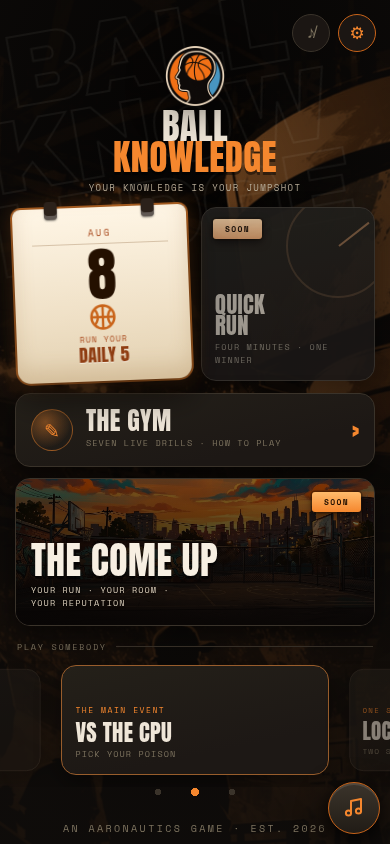
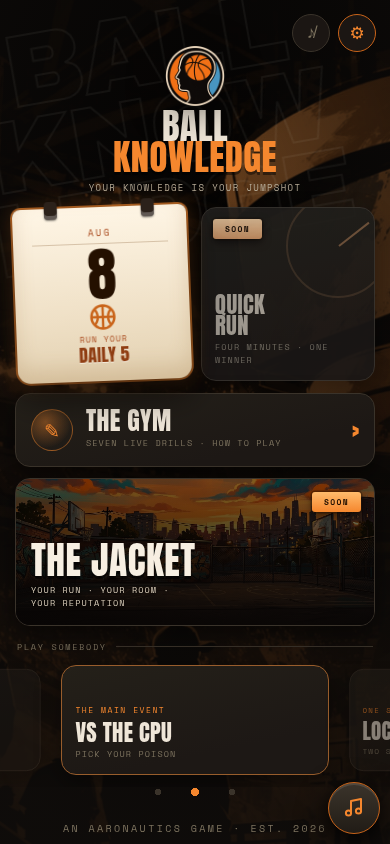
The career mode is THE JACKET, and the doubt about it is filed
Aaron ruled the name. One line, CAREER_NAME in game.js, and both menus follow
from [data-career-name]. The markup default was updated to match the constant so
a render before the script runs is not briefly wrong.

His doubt is filed in BUILD.md section 6 rather than answered in a chat reply,
because it is the biggest open design question in the project:

  "can we really build a career off of trivia questions? I almost am thinking a
   time travel series and letting it be going through the eras."

The short of what is filed: the doubt is correct and pointed at the wrong thing.
The questions are not the game, they are the dice. The board is the game, and a
career varies rosters, opponents, rules and courts while the resolution
mechanic stays constant.

The era idea is the best thing said about this mode and it is not sci-fi, it is
already the data's shape: eras.json, fact_eras.json and person_eras.json exist,
era tagging is Track A item A3, era-scoped questions were ruled in 22q. A
chapter per era narrows the pool to real cards, which is a difficulty curve made
of data rather than a number going up. It also gives a reason to write the
pre-1980 cards A5 is already about, so the mode and the coverage gap fix each
other.

Recommendation filed as option 1 (chapters, not time travel) structured so
option 2 stays available, because the chapter shape is identical either way.
Not decided, his call, and the unresolved part is named: what a chapter WIN is.
[…]

Changed region(s): [[0.2154, 0.6161, 0.5538, 0.7085]]

diff --git a/docs/play/index.html b/docs/play/index.html
@@ -1094,7 +1094,8 @@
      THE HIERARCHY THE LAYOUT ENCODES, top to bottom:
        TODAY   two squares, the Daily Five, and Quick Run when it exists
        LEARN   The Gym, one wide strip
-       BUILD   The Come Up, the tall one, because it is the biggest promise
+       BUILD   the career mode, the tall one, because it is the biggest
+               promise. Its NAME is CAREER_NAME in game.js, never typed here
        COMPETE the three VS modes, siblings, so they share one device
      That is why the sizes differ. Nothing here is decorative sizing. */
   /* PREFIX IS mm-, NOT nm-, AND THAT IS A BUG SCAR.
@@ -3136,7 +3137,7 @@
     <button class="mbtn live" id="btnOnline" data-pow="LET'S GO!"><span class="lbl">Online · Friend Codes</span><span class="soon" style="color:#ffd06a">ALPHA · access code required</span><span class="halftone"></span></button>
     <button class="mbtn live" id="btnPlay" data-pow="SWISH!"><span class="lbl">Local VS · one screen</span><span class="soon">two squads, pass-n-play</span><span class="halftone"></span></button>
     <button class="mbtn ghost live" id="btnHow" data-pow="RUN IT BACK!"><span class="lbl">The Gym</span><span class="soon">seven live drills · how to play</span><span class="halftone"></span></button>
-    <div class="mbtn locked tease packs"><span class="lbl" data-career-name>The Come Up</span><span class="lock"><svg class="ic"><use href="#i-lock"/></svg> Your run · your room</span><div class="tzone"><div class="rafters" aria-hidden="true"><div class="bnr b1" style="--bnc:#6a5c48"></div><div class="bnr b2" style="--bnc:var(--accent)"></div><div class="bnr b3" style="--bnc:#6a5c48"></div></div></div><span class="cornrib"><b>SOON</b></span></div>
+    <div class="mbtn locked tease packs"><span class="lbl" data-career-name>The Jacket</span><span class="lock"><svg class="ic"><use href="#i-lock"/></svg> Your run · your room</span><div class="tzone"><div class="rafters" aria-hidden="true"><div class="bnr b1" style="--bnc:#6a5c48"></div><div class="bnr b2" style="--bnc:var(--accent)"></div><div class="bnr b3" style="--bnc:#6a5c48"></div></div></div><span class="cornrib"><b>SOON</b></span></div>
   </div>
   <div class="proto">An Aaronautics game · est. 2026</div>
 </div>
@@ -3204,7 +3205,7 @@
       <span class="mm-bgtint" aria-hidden="true"></span>
       <span class="mm-bgdark" aria-hidden="true"></span>
       <span class="mm-rib">SOON</span>
-      <span class="mm-tname" data-career-name>The Come Up</span>
+      <span class="mm-tname" data-career-name>The Jacket</span>
       <span class="mm-tsub">your run · your room · your reputation</span>
     </div>
 

diff --git a/docs/play/game.js b/docs/play/game.js
@@ -6323,7 +6323,7 @@ g('btnSettings2').addEventListener('click',function(){openSettings('title')});
    Changing the mode's name is this one line. Typing it twice is how a game ends
    up calling the same thing two different things on two screens, which is the
    exact bug the Daily Five tier names already produced once. */
-var CAREER_NAME = 'The Come Up';
+var CAREER_NAME = 'The Jacket';
 function paintCareerName(){
   document.querySelectorAll('[data-career-name]').forEach(function(el){
     el.textContent = CAREER_NAME;

diff --git a/BUILD.md b/BUILD.md
@@ -1033,6 +1033,62 @@ storing what people typed; fine, but as a decision, not a side effect.
 
 ## 6 · Open design questions
 
+### CAN A CAREER MODE BE BUILT ON TRIVIA AT ALL? (Aaron, 2026-08-08)
+
+His name ruling: **THE JACKET.** The Hall of Fame jacket, a real object, one you
+can draw and put in a room and earn. `CAREER_NAME` in `game.js`; both menus read
+it from `[data-career-name]`.
+
+And immediately, his own doubt, which is the useful part:
+
+> *"I am already having some doubts about career mode because can we really
+> build a career off of trivia questions? I almost am thinking a time travel
+> series and letting it be going through the eras teaching you as you become a
+> legend with the jacket in your own era. A little sci-fi might kill it but I do
+> not know how to make the trivia around a career mode work."*
+
+**The doubt is correct and it is pointed at the wrong thing.** A career mode
+normally rewards skill that VARIES: you get better, and the game can see it.
+Trivia is binary, you know it or you do not, so a career built on the QUESTIONS
+would be a progress bar bolted to a quiz.
+But the questions are not the game. **They are the dice.** The game is the
+board: rosters, spacing rules, screens, the shot chart, who you are playing.
+A career varies all of that while the resolution mechanic stays constant, which
+is exactly how every dice game with a campaign works.
+
+**THE ERA IDEA IS THE BEST THING SAID ABOUT THIS MODE, and it is not sci-fi.**
+It is already in the data. `eras.json`, `fact_eras.json` and `person_eras.json`
+exist today; era tagging is Track A item **A3**; era-scoped questions were
+ruled in **22q**. So "a chapter per era" is not a fiction laid over the bank, it
+is **the bank's own shape**: each chapter narrows the question pool to one era,
+which is a real difficulty curve made of real data rather than a number going up.
+
+**And the two problems solve each other.** Coverage is thinnest in the old eras,
+which is why **A5** (the pre-1980 cards) is on Track A at all. A mode that walks
+the eras gives a reason to write those cards AND gives the player a reason to
+learn them. Right now nobody has a reason to care about 1954.
+
+**On the sci-fi worry, two honest options.**
+1. **Do not call it time travel.** Call it film study, or chapters. You are not
+   travelling, you are playing THROUGH the history of the game, and the frame
+   writes itself: *how do you earn a jacket? By knowing the whole game, era by
+   era.* Costs nothing, needs no new art, and the Coach is already a narrator.
+2. **Lean all the way in.** Time travel is the only frame that lets you line up
+   against Wilt and then Jokic without apologising for it, and it makes the
+   Coach a guide rather than a tutorial. **It costs writing and art**, which is
+   the real bill, not the credibility.
+
+**Recommendation: option 1 to start, structured so option 2 stays available.**
+Chapters by era, the Coach narrating, the jacket as the thing you are earning.
+If it wants to become time travel later, nothing has to be rebuilt, because the
+chapter structure is identical either way. **Aaron's call, not decided.**
+
+**Still unresolved and worth naming:** what a "win" in a chapter IS. Beating a
+CPU squad from that era is the obvious answer and it reuses everything already
+built. That is the first thing to pin down before any of this gets built.
+
+
+
 - **22ag · QUESTION ROTATION, AND WHY IT CHANGES WHAT "ENOUGH QUESTIONS" MEANS
   (Aaron, 2026-08-07 — filed, not built)**
 
